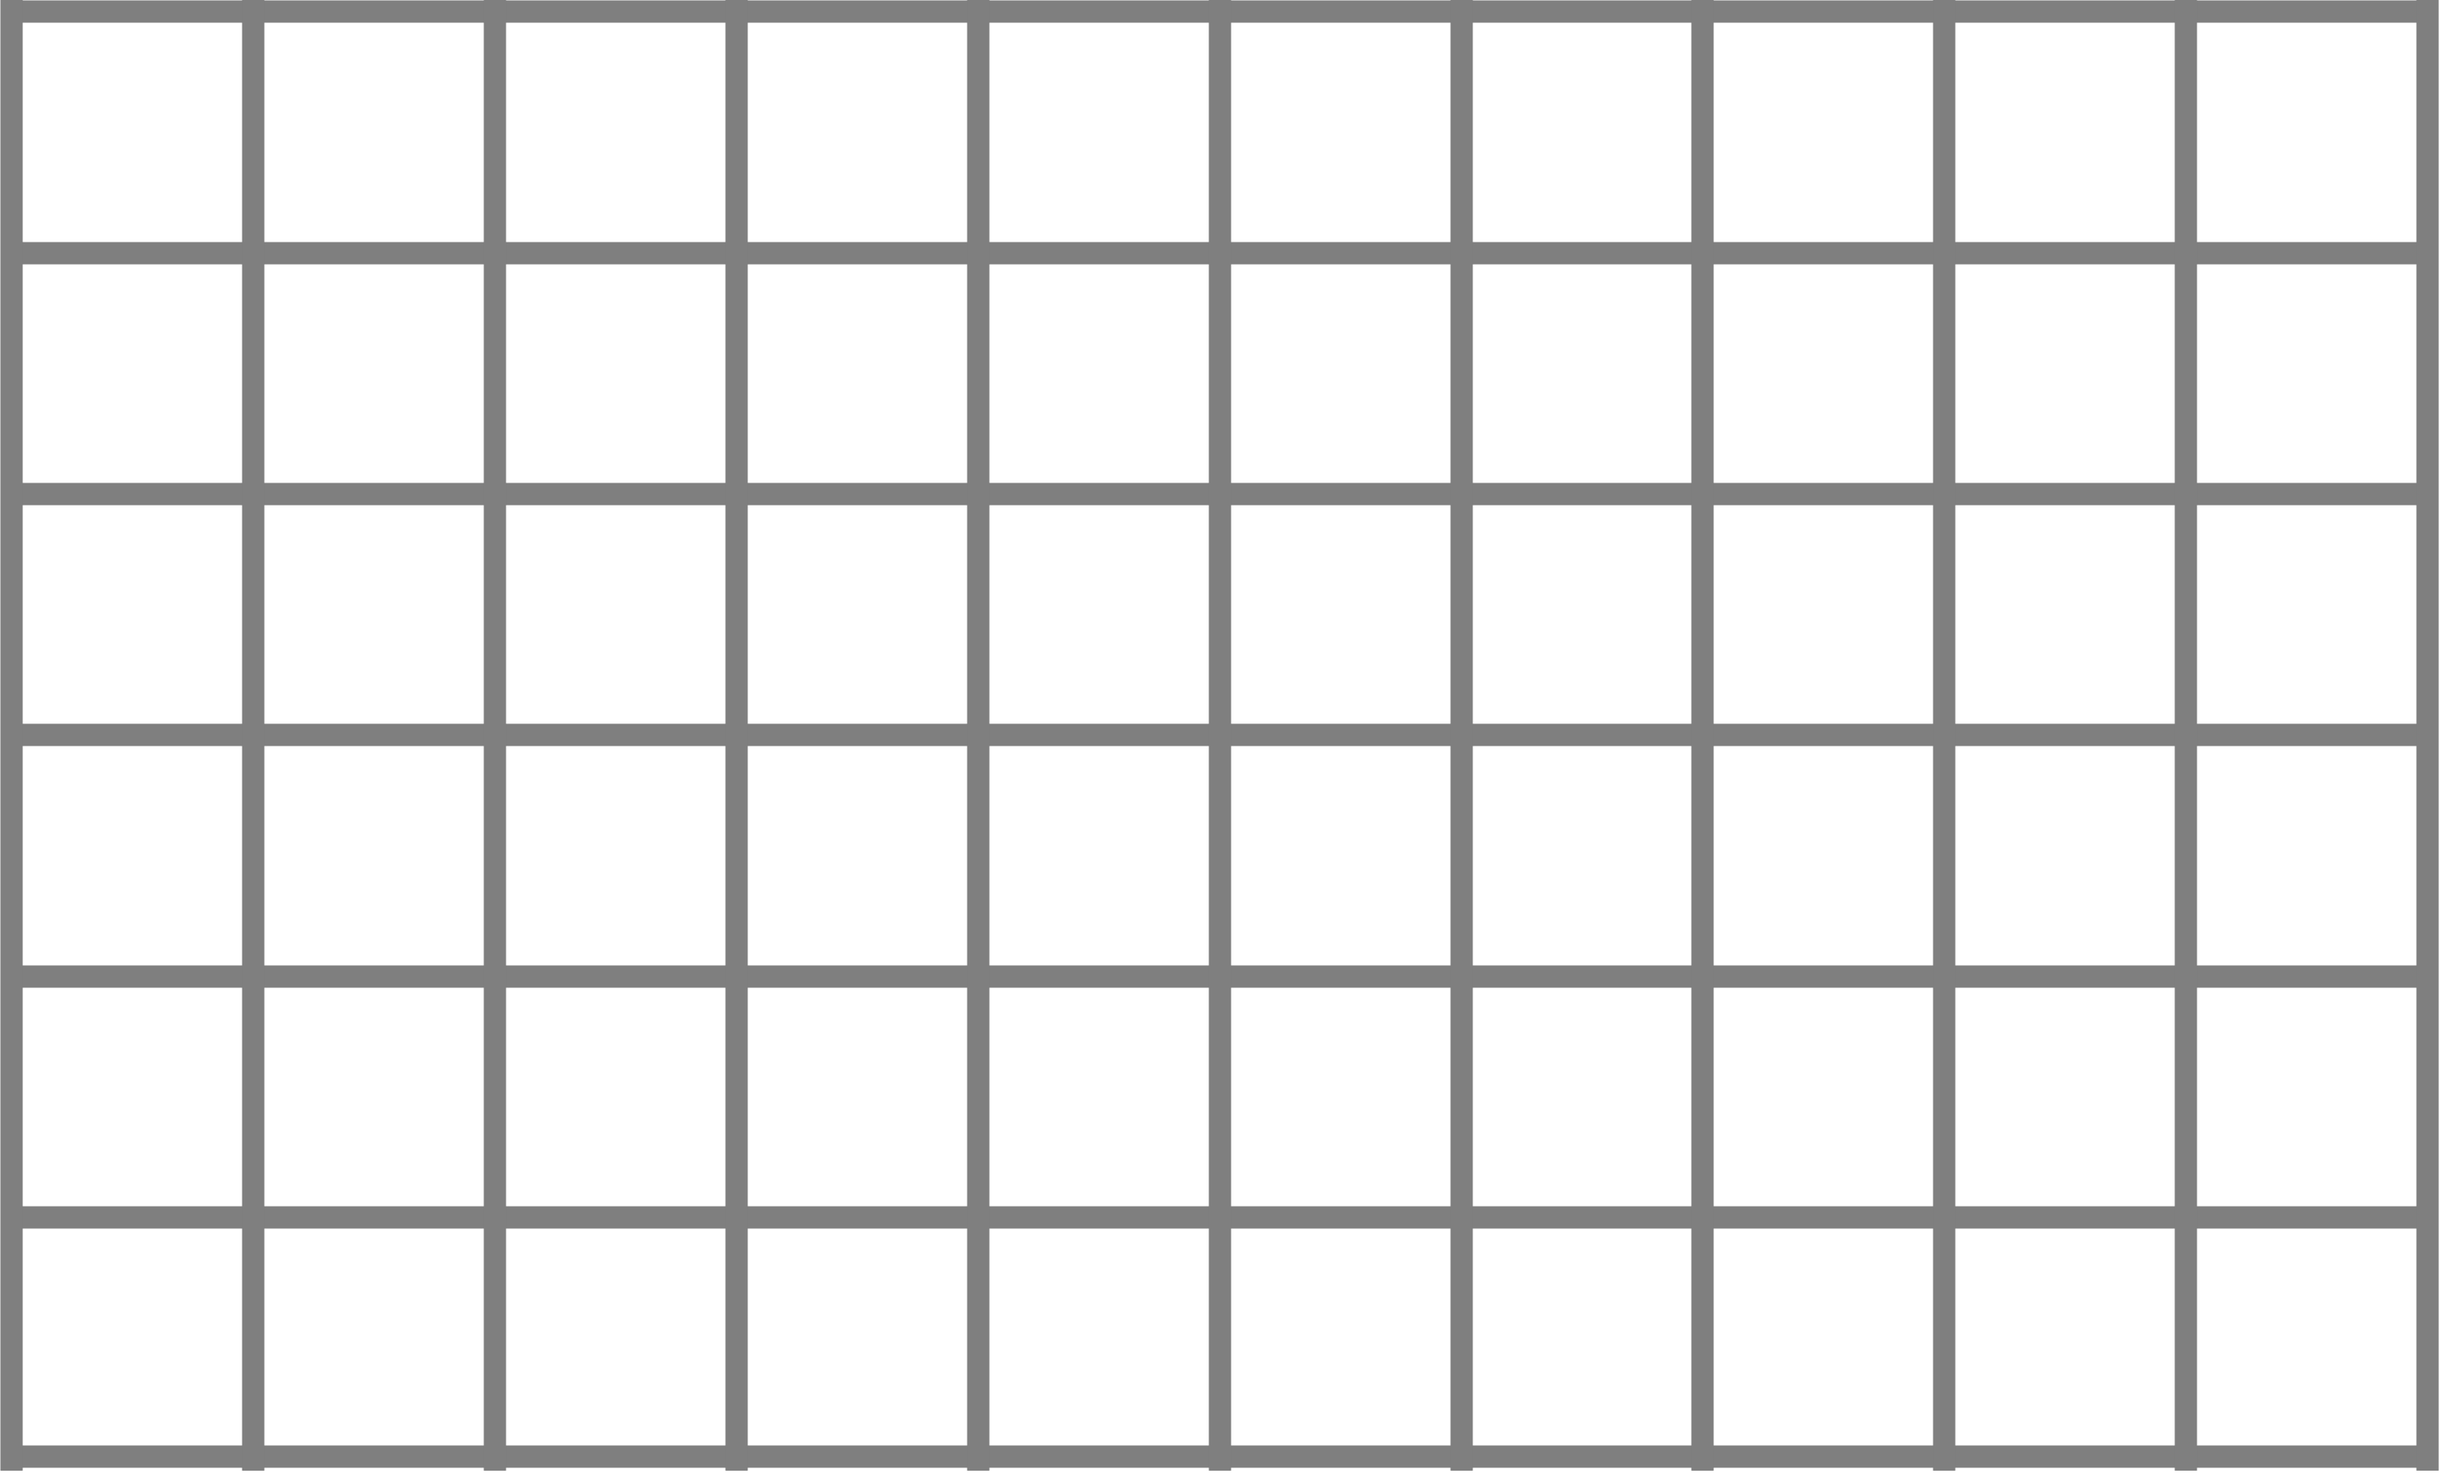
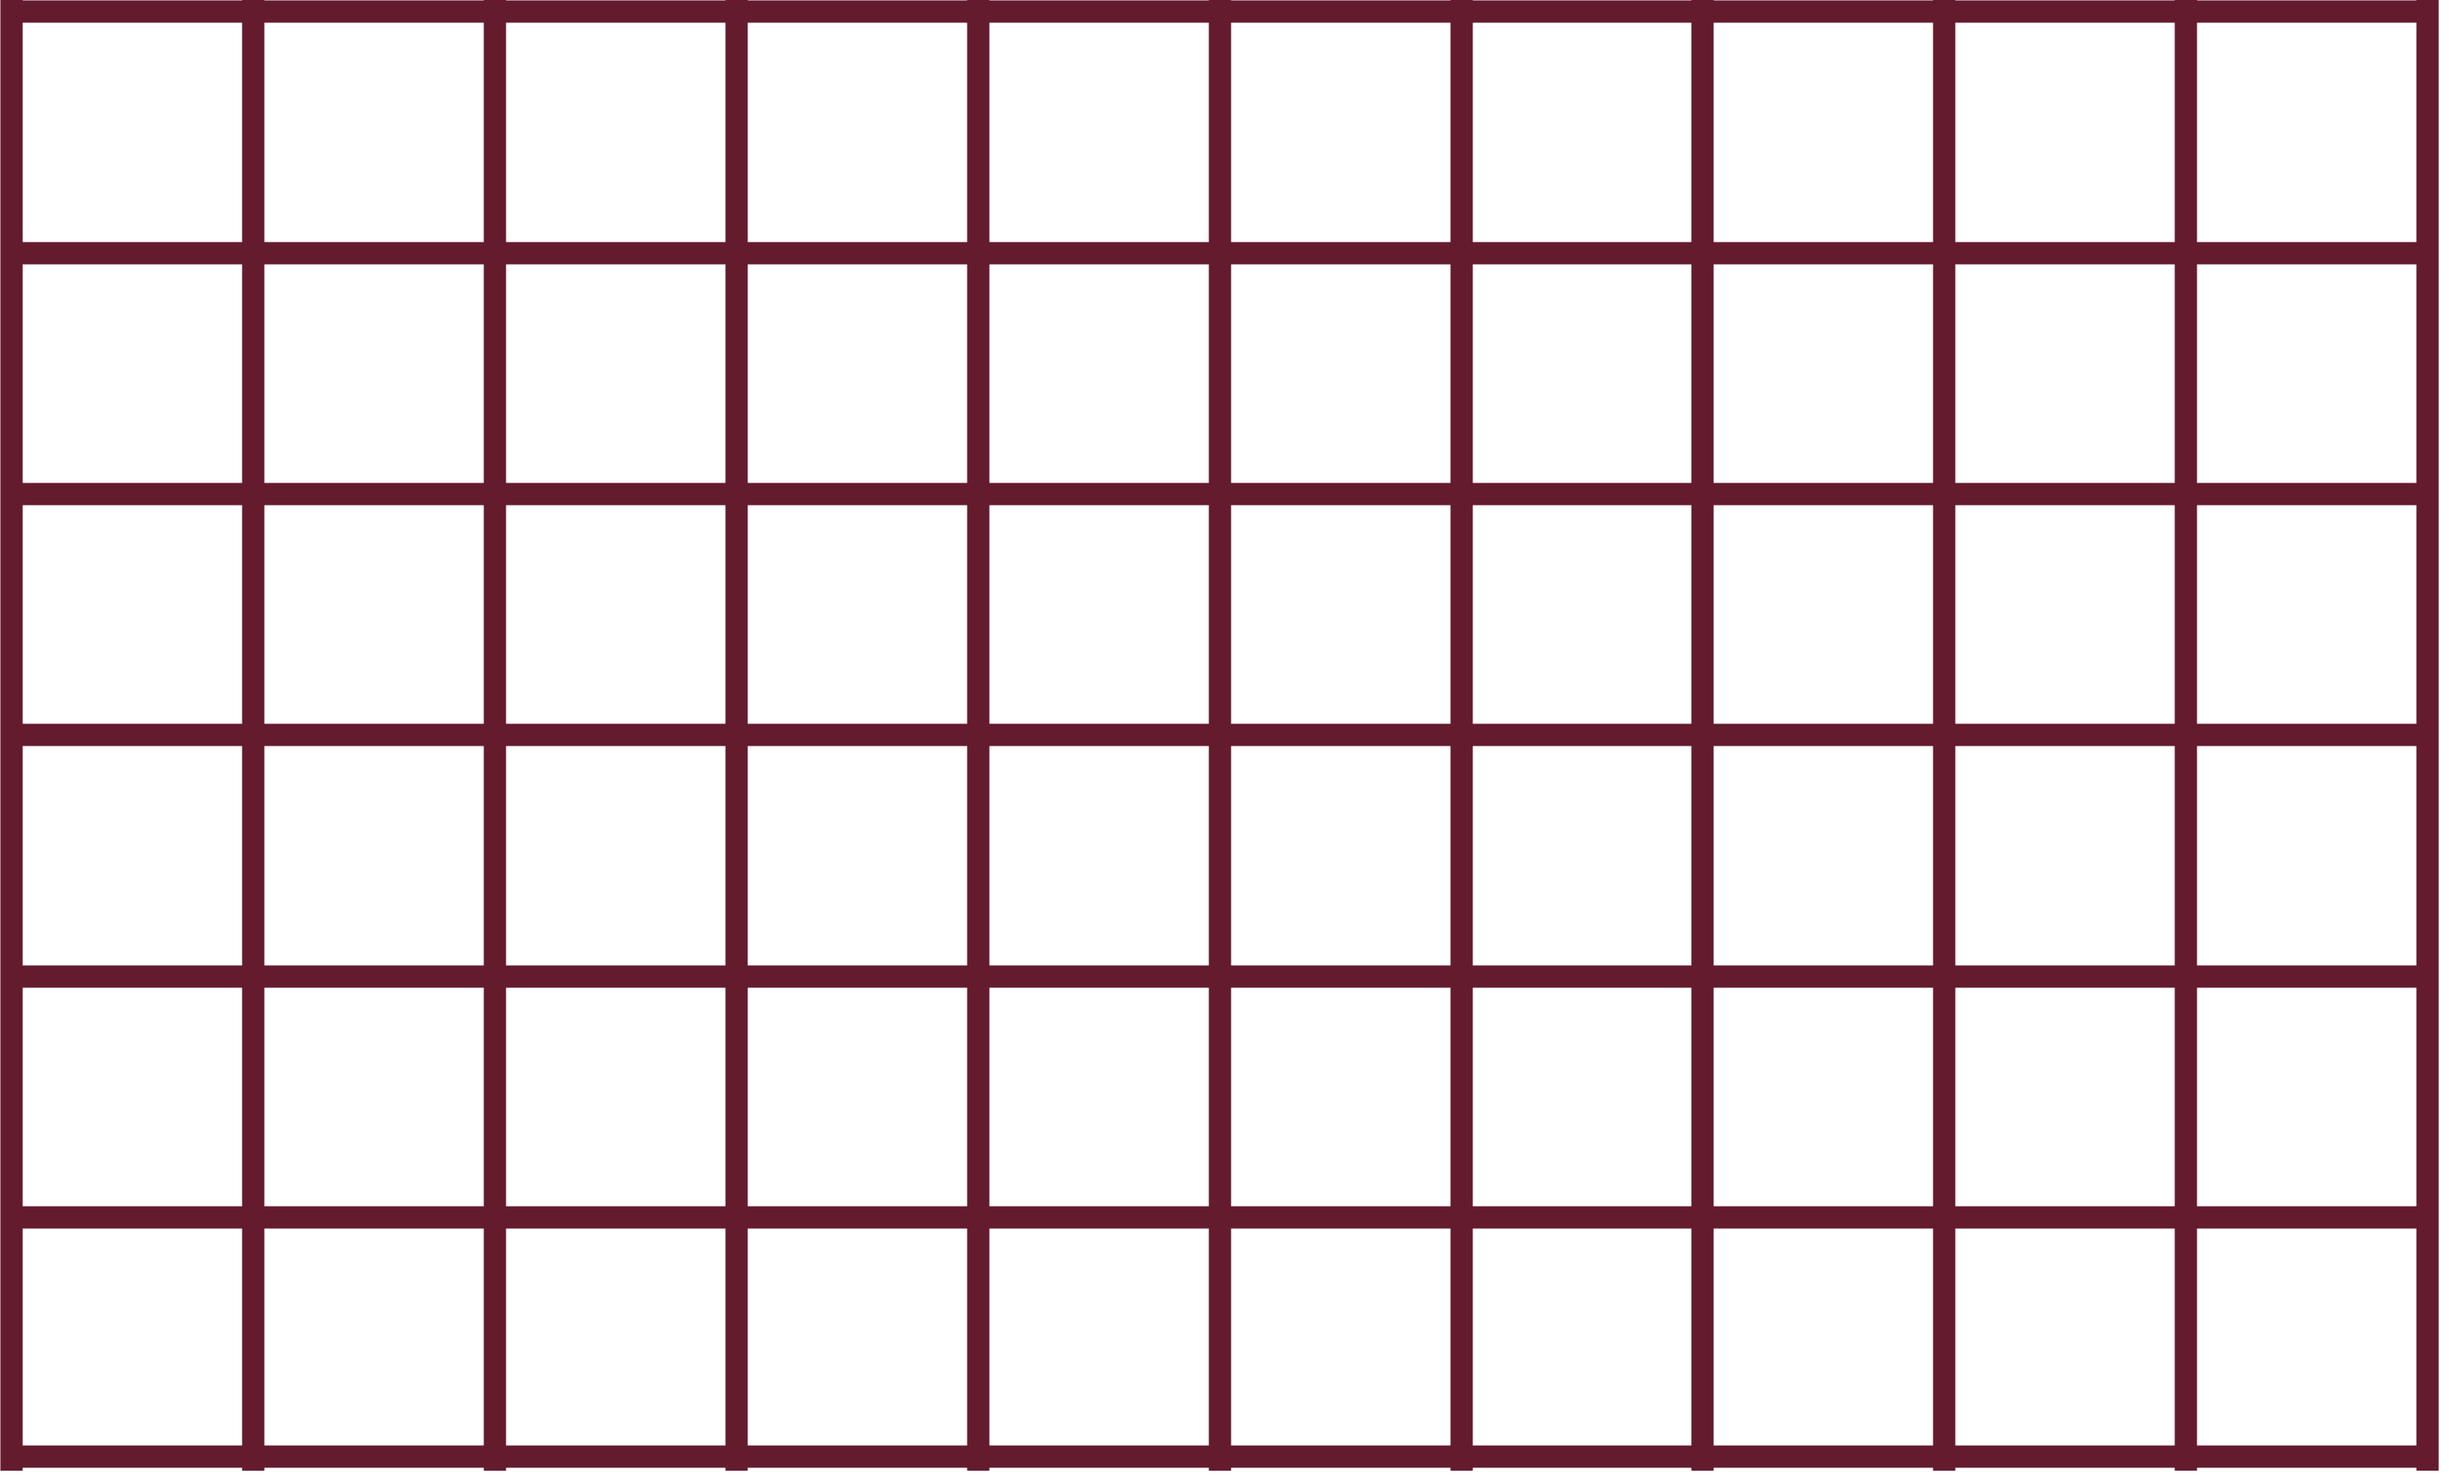
change canva: battle, boss

Changed region(s): [[0.0, 0.0, 1.0, 0.9967]]

diff --git a/canvas.py b/canvas.py
@@ -59,7 +59,19 @@ def draw_credit(screen: pygame.Surface):
 
 def draw_battle(stage:Stage, screen: pygame.Surface):
 	# fill background
-	screen.fill((255, 127, 127))
+	# screen.fill((255, 127, 127))
+	screen.fill((251, 219, 147))
+	width = screen.get_width()
+	height = screen.get_height()
+	center = Vector2(width, height) / 2
+	road_icon = pygame.transform.scale(pygame.image.load("./resource/image/type_simple/image_map.png"), (15, 15))
+	delta = min((height - 50) / 8, width / 12)
+	shift = Vector2(road_icon.get_width(), road_icon.get_height()) / 2
+	for i in range(-5, 6):
+		for j in range(-3, 4):
+			pos= Vector2(i, j)
+			position = center + pos * delta - shift
+			screen.blit(road_icon, position.to_tuple())
 	# Draw player
 	draw_unit(screen, stage.player)
 	# Draw shadows
@@ -79,7 +91,19 @@ def draw_battle(stage:Stage, screen: pygame.Surface):
 
 def draw_boss(stage: Stage, screen: pygame.Surface):
 	# fill background
-	screen.fill((255, 0, 0))
+	# screen.fill((255, 0, 0))
+	screen.fill((190, 91, 80))
+	width = screen.get_width()
+	height = screen.get_height()
+	center = Vector2(width, height) / 2
+	road_icon = pygame.transform.scale(pygame.image.load("./resource/image/type_simple/image_map.png"), (15, 15))
+	delta = min((height - 50) / 8, width / 12)
+	shift = Vector2(road_icon.get_width(), road_icon.get_height()) / 2
+	for i in range(-5, 6):
+		for j in range(-3, 4):
+			pos= Vector2(i, j)
+			position = center + pos * delta - shift
+			screen.blit(road_icon, position.to_tuple())
 	# Draw player
 	draw_unit(screen, stage.player)
 	# Draw entities
